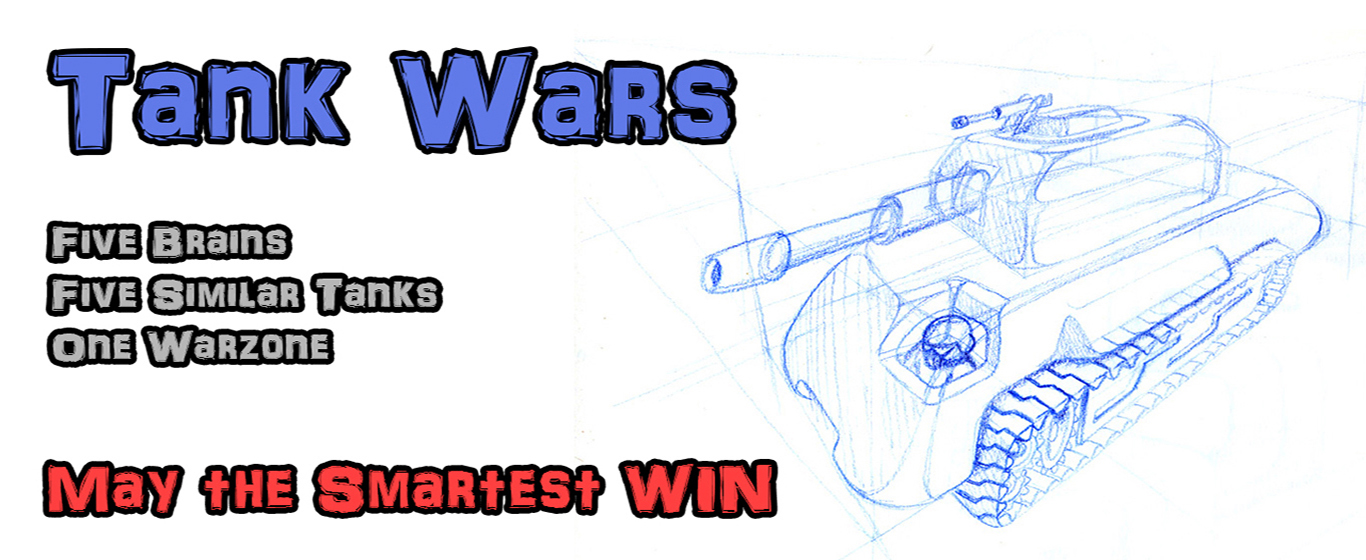
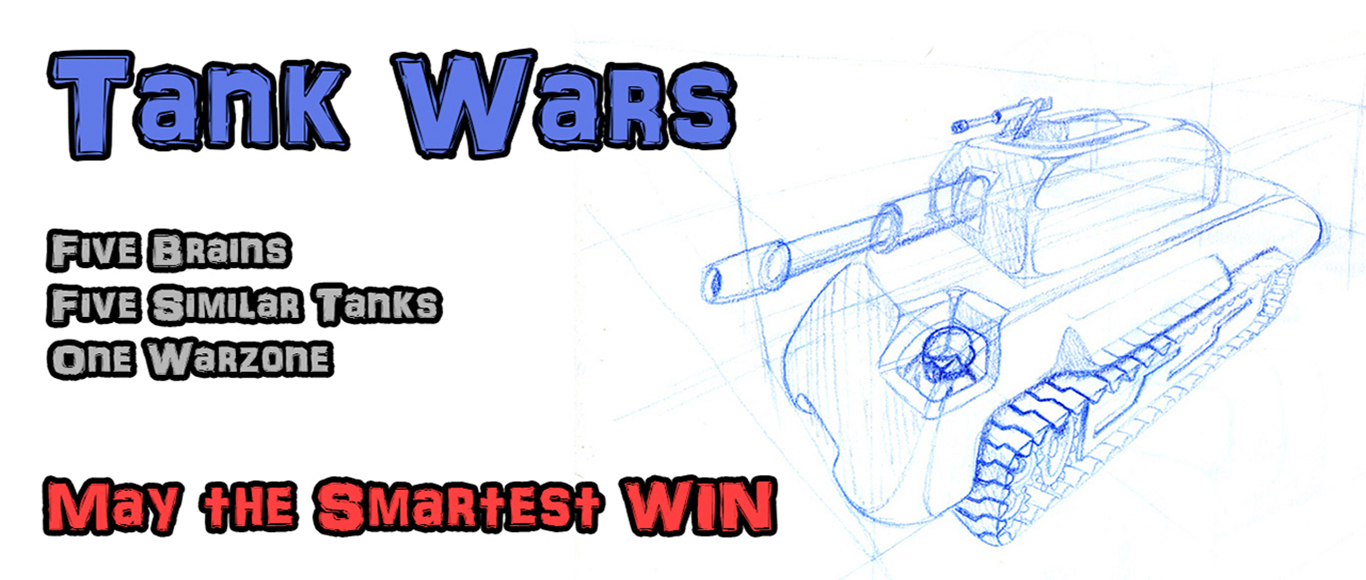
Home slider corrected

diff --git a/css/styles.css b/css/styles.css
@@ -97,10 +97,5 @@ i {
     color: #e74c3c;
 }
 
-#bg {
-    width: 100%;
-    height: 100%;
-}
-
 .carousel .carousel-control { visibility: hidden; }
 .carousel:hover .carousel-control { visibility: visible; }

diff --git a/index.php b/index.php
@@ -17,6 +17,7 @@
         <link href='https://fonts.googleapis.com/css?family=Kaushan+Script' rel='stylesheet' type='text/css'>
         <link href='https://fonts.googleapis.com/css?family=Droid+Serif:400,700,400italic,700italic' rel='stylesheet' type='text/css'>
         <link href='https://fonts.googleapis.com/css?family=Roboto+Slab:400,100,300,700' rel='stylesheet' type='text/css'>
+             
     </head>
     
     <body id="home" style="margin-top: 40px; padding-bottom: 60px;" >
@@ -27,7 +28,7 @@
         ?>
 
         <!--Carousel-->
-        <div class="col-xs-12">
+        <div id="home_slider" class="col-xs-12">
             <div id="carousel-example-generic" class="carousel slide" data-ride="carousel">
                 <!-- Indicators -->
                 <ol class="carousel-indicators">
